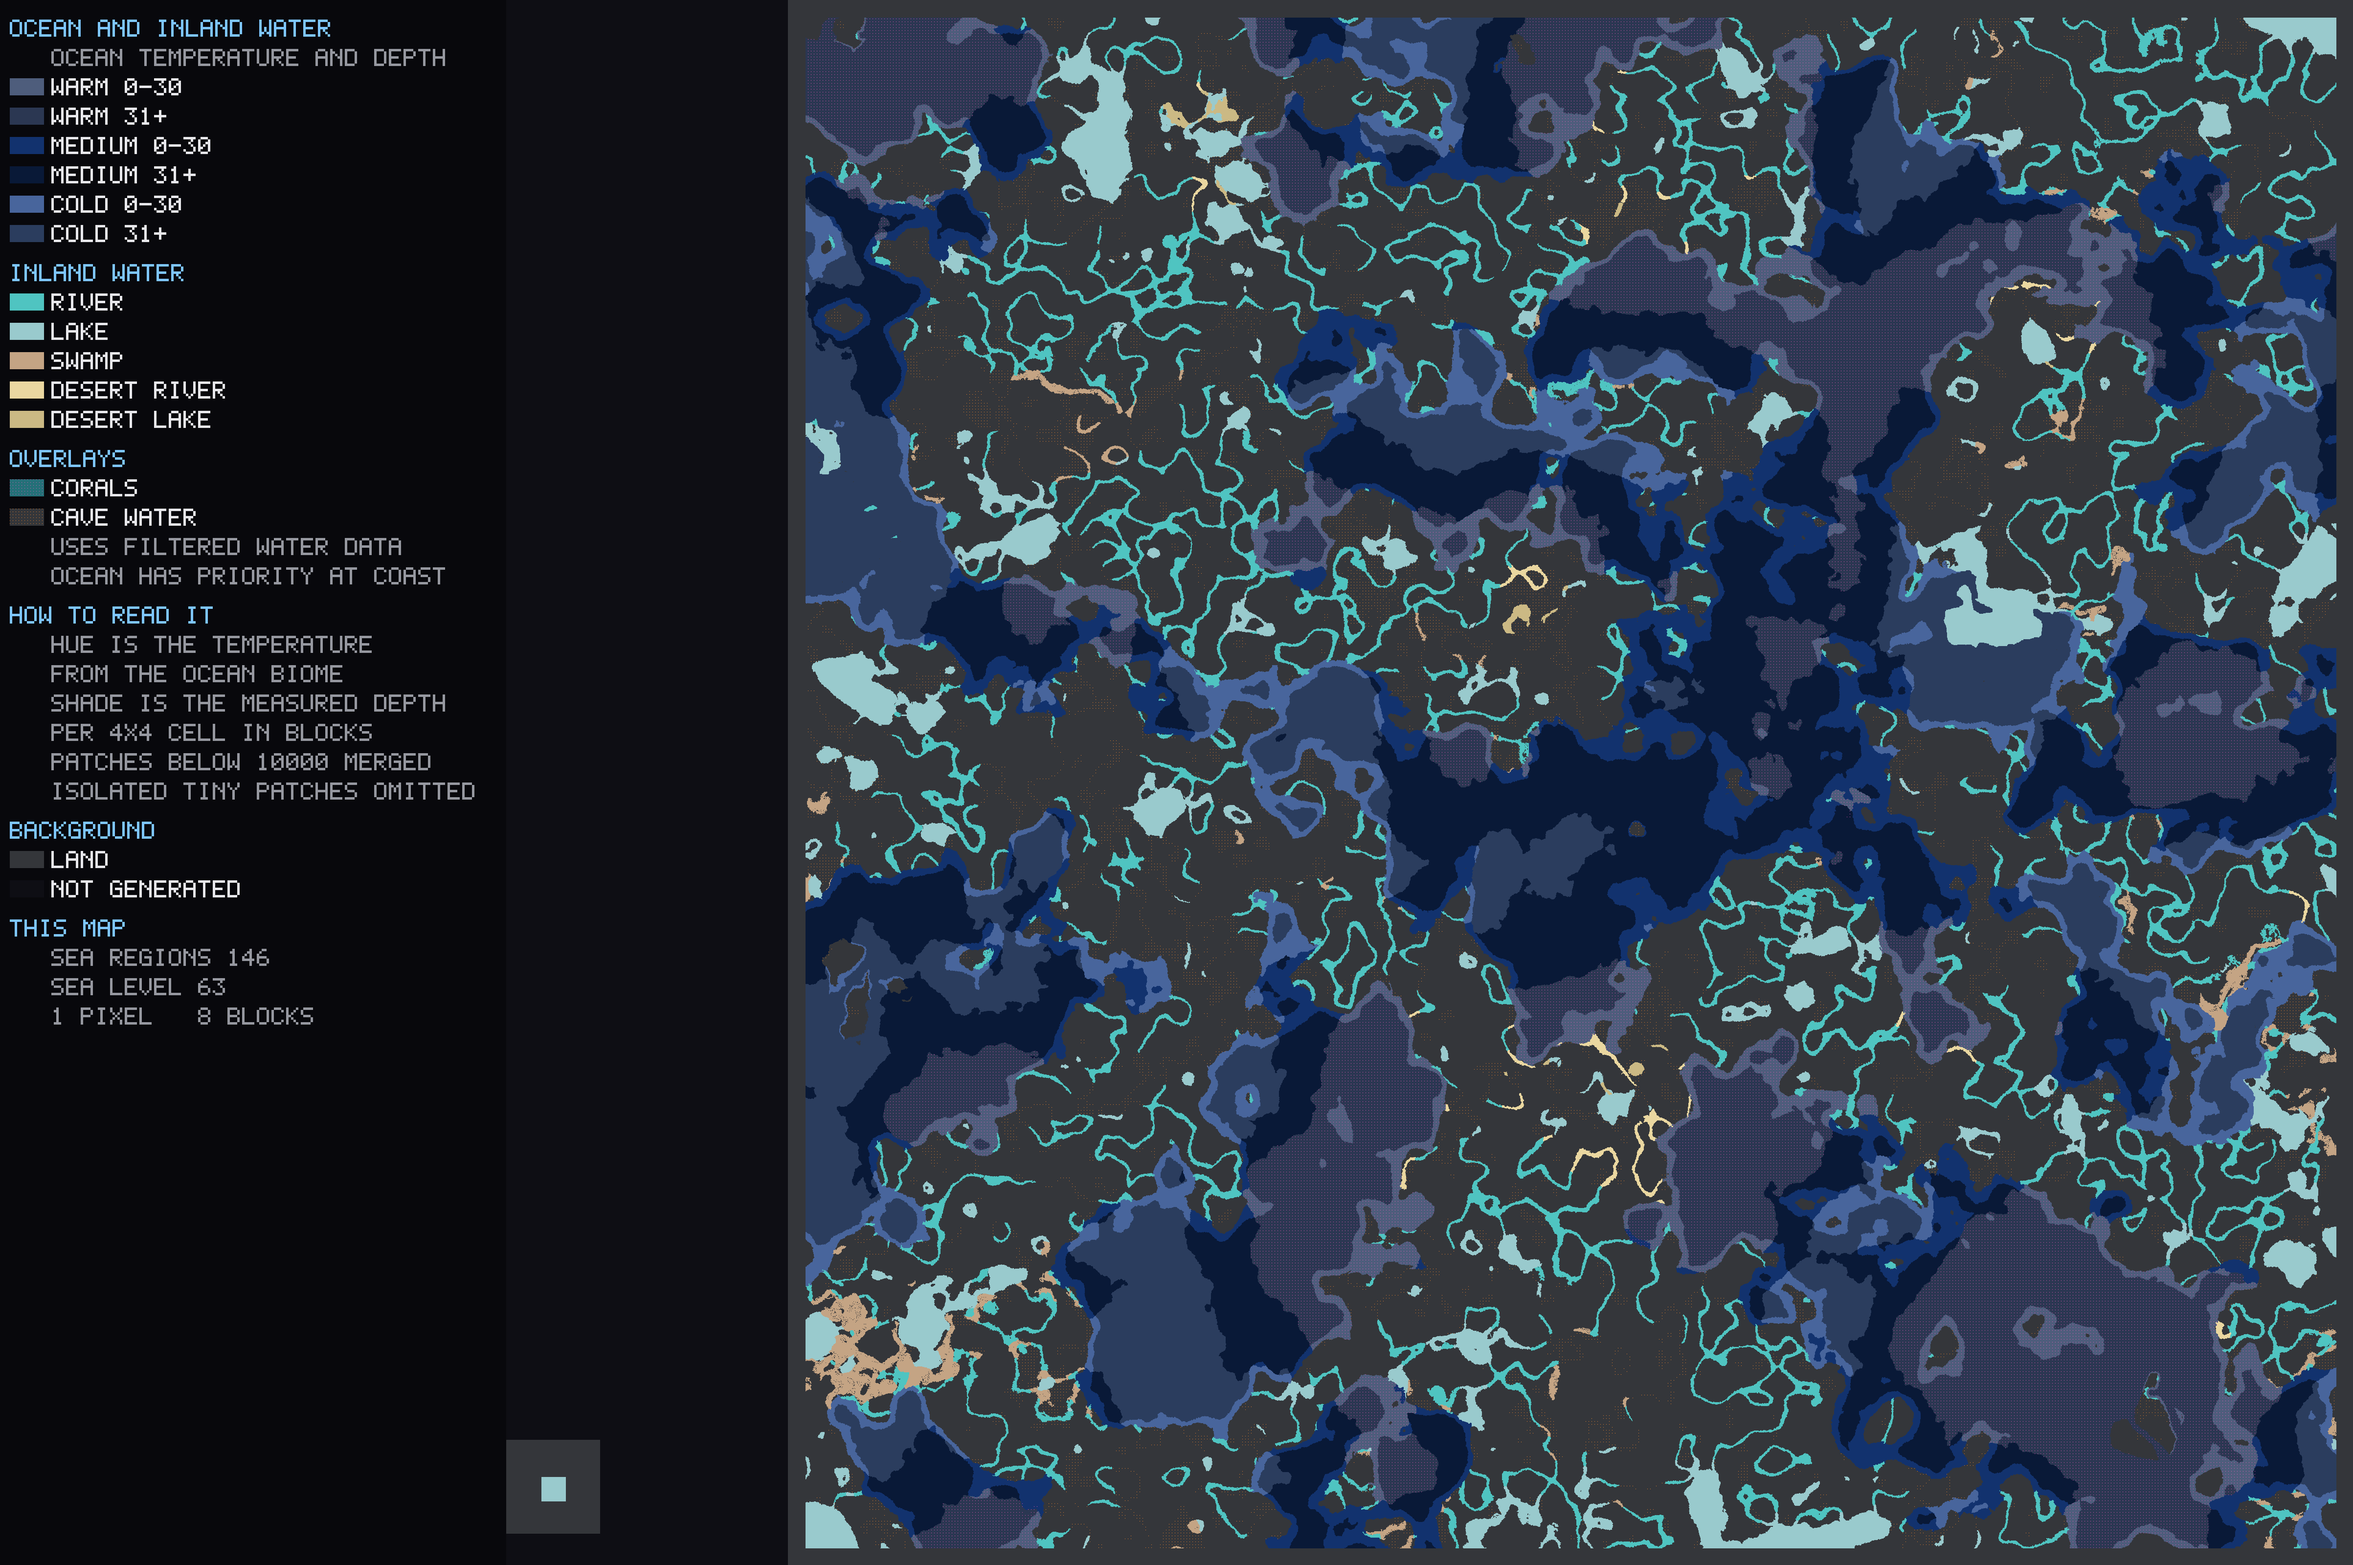
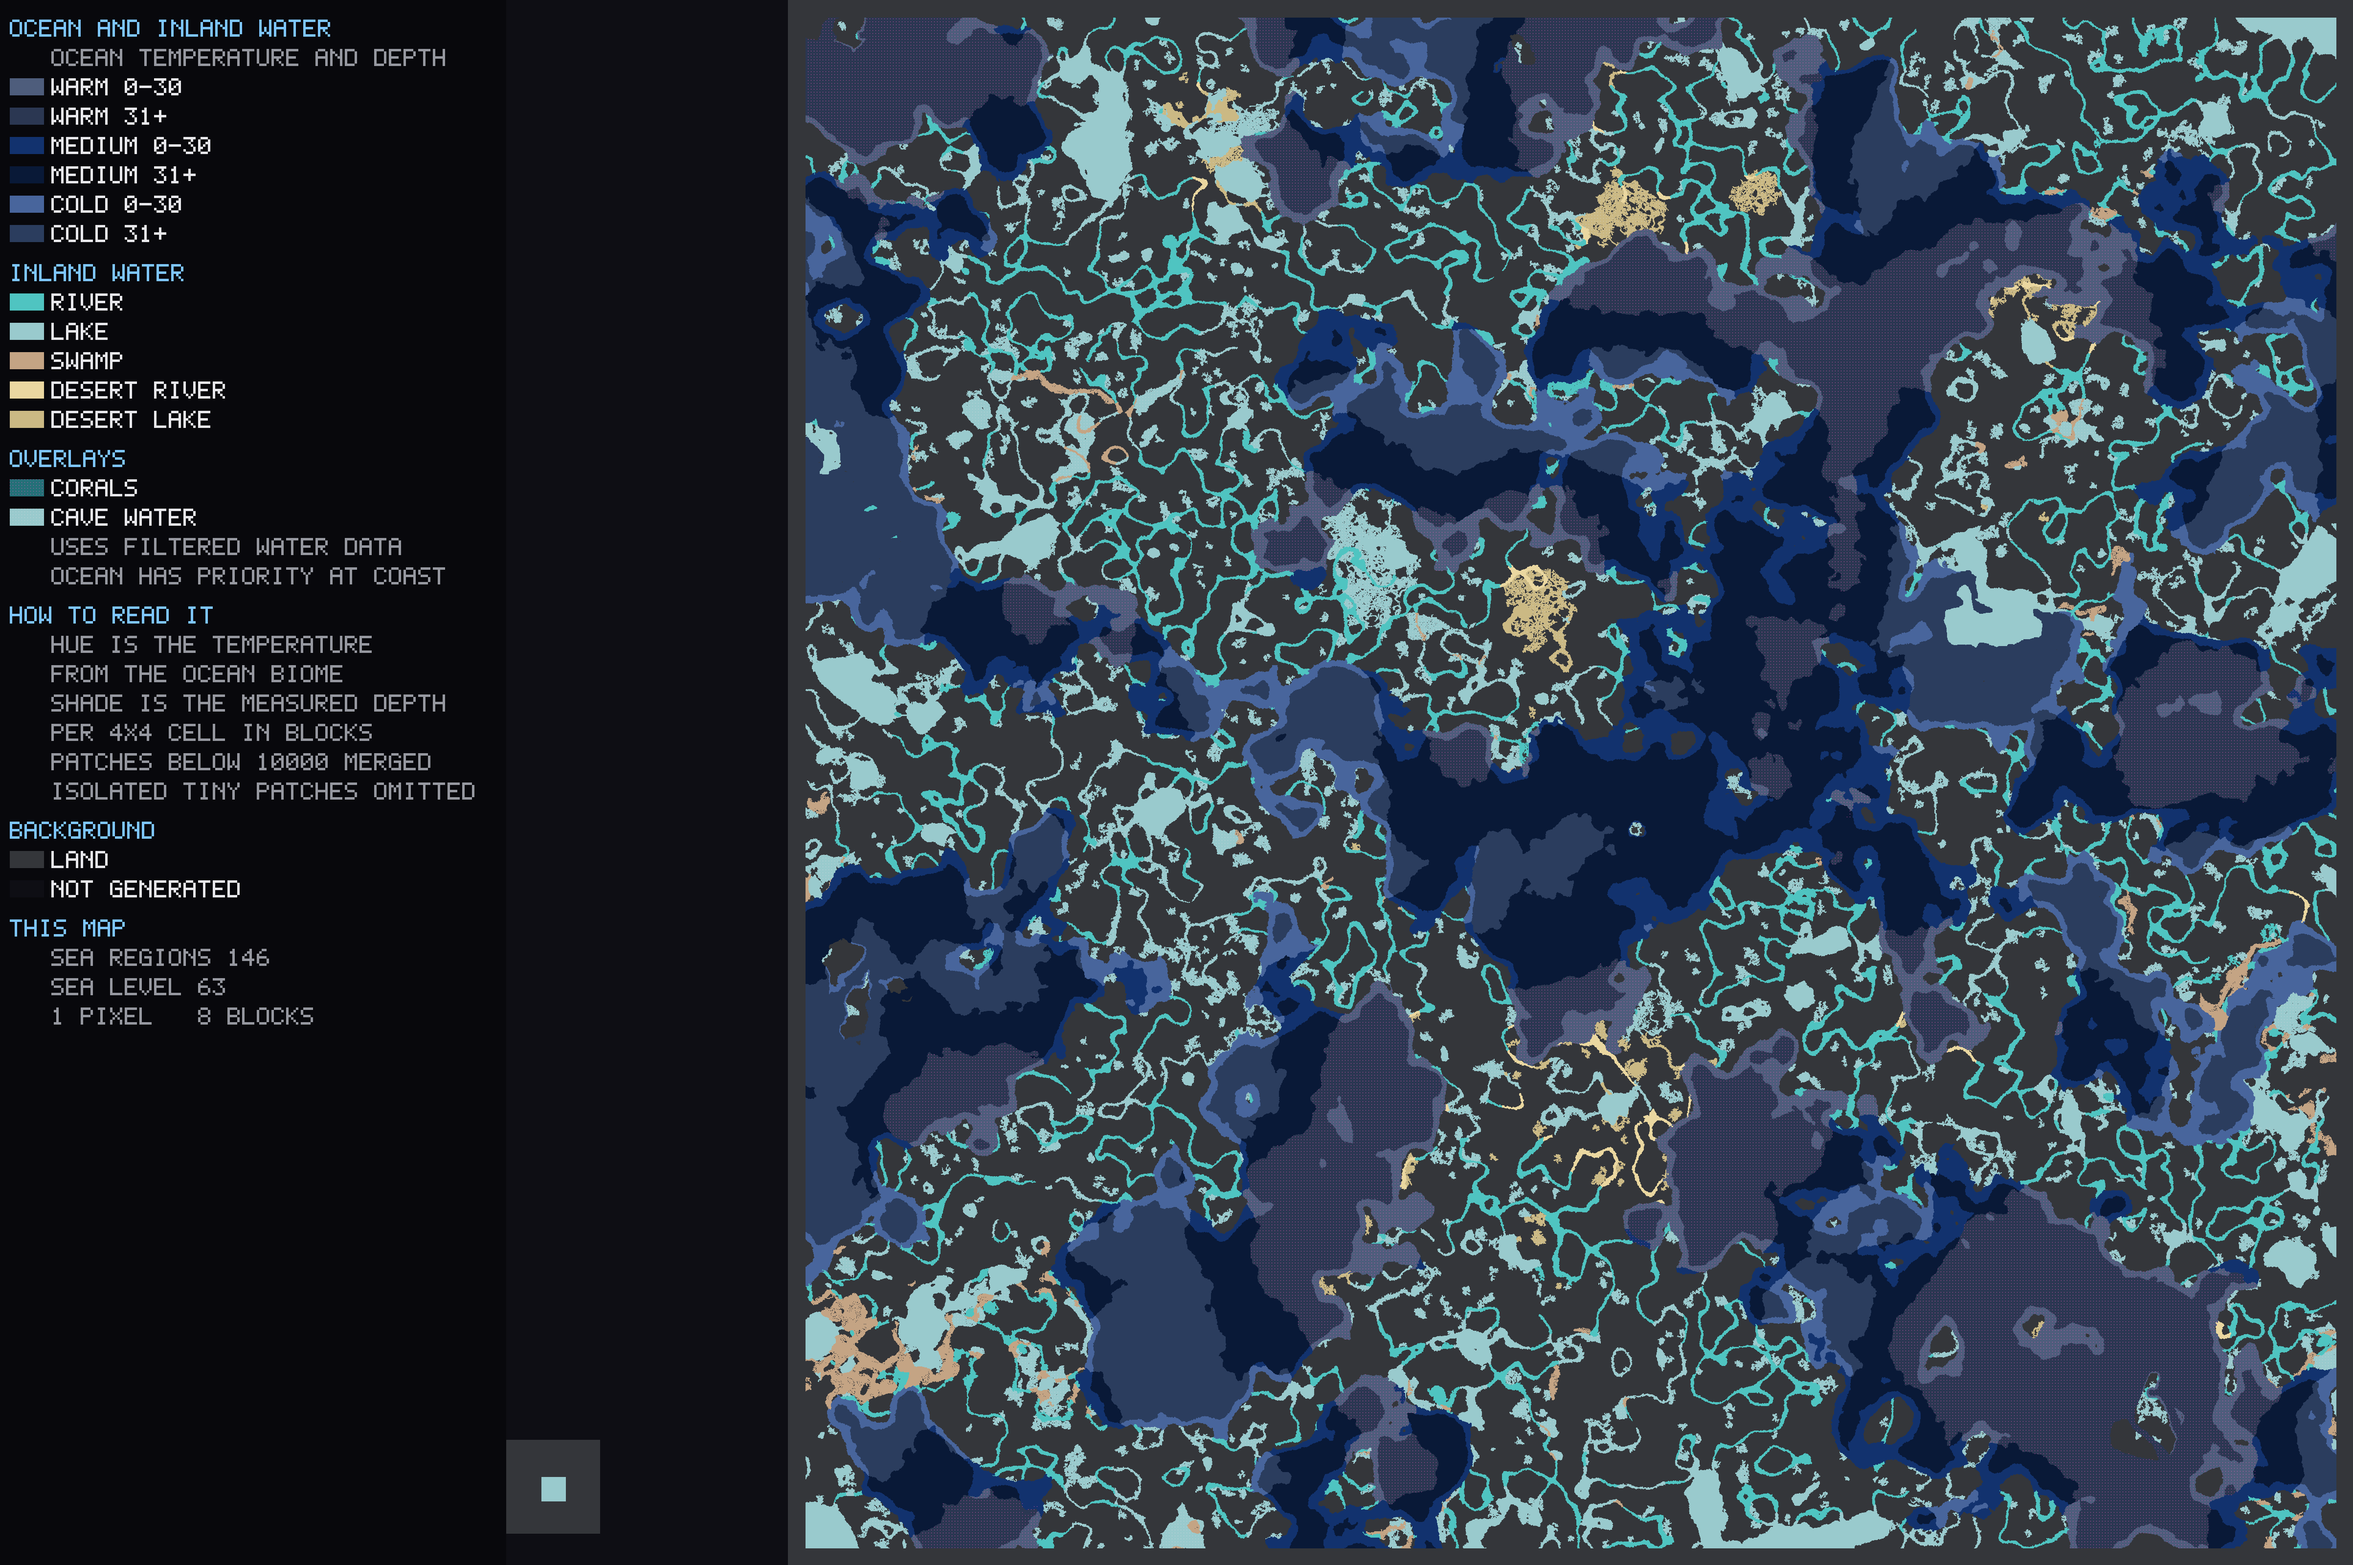
Show cave water kinds beneath light gray dots

diff --git a/src/debug/map.rs b/src/debug/map.rs
@@ -35,7 +35,7 @@ const TEXT_DIM: [u8; 3] = [150, 152, 160];
 const HEADER: [u8; 3] = [126, 198, 255];
 const RIVER_COLOR: [u8; 3] = [0x4f, 0xc4, 0xc1];
 const SWAMP_COLOR: [u8; 3] = [0xc4, 0xa4, 0x84];
-const CAVE_DOT_COLOR: [u8; 3] = [0xff, 0x8b, 0x2c];
+const CAVE_DOT_COLOR: [u8; 3] = [0xd2, 0xd6, 0xdc];
 const CORAL_DOT_COLOR: [u8; 3] = [0xff, 0x5a, 0xbe];
 
 pub struct MapOptions {
@@ -243,8 +243,8 @@ fn modifier_overlay(modifiers: Modifiers, x: usize, y: usize) -> Option<[u8; 3]>
 
 /// Sparse overlays shared by the full classification and clean overview maps.
 /// They only replace pixels already owned by a matching region; they never grow
-/// or fill its geometry. Cave dots are drawn over the land backdrop because the
-/// clean overview deliberately does not paint underground water as a surface lake.
+/// or fill its geometry. Cave dots sit on the normal river/lake/swamp colour so
+/// the water kind remains readable underneath the cave marker.
 fn overview_modifier_overlay(modifiers: Modifiers, x: usize, y: usize) -> Option<[u8; 3]> {
     if x % 6 != 2 || y % 6 != 2 {
         return None;
@@ -874,10 +874,6 @@ fn paint_inland(canvas: &mut Canvas, regions: &[WaterRegion], p: &Projection, in
             if (region.kind == WaterKind::Sea) != sea_pass {
                 continue;
             }
-            // Underground pools would cover the land in lake colour.
-            if region.modifiers.contains(Modifiers::CAVE) {
-                continue;
-            }
             let color = inland_region_color(region.kind, region.modifiers);
             for run in &region.geometry.runs {
                 let (xa, y) = p.px(run.x0, run.z);
@@ -932,7 +928,10 @@ fn inland_rows(regions: &[WaterRegion], blocks_per_pixel: u32) -> Vec<Row> {
         entry("DESERT LAKE", Swatch::Color(inland_region_color(WaterKind::Lake, Modifiers::DESERT))),
         heading("OVERLAYS"),
         entry("CORALS", Swatch::Pattern(inland_color(WaterKind::Sea), Modifiers::CORALS)),
-        entry("CAVE WATER", Swatch::Pattern(BG_LAND, Modifiers::CAVE)),
+        entry(
+            "CAVE WATER",
+            Swatch::Pattern(inland_color(WaterKind::Lake), Modifiers::CAVE),
+        ),
         heading("BACKGROUND"),
         entry("LAND", Swatch::Color(BG_LAND)),
         entry("NOT GENERATED", Swatch::Color(BG_VOID)),
@@ -959,7 +958,10 @@ fn combined_rows(regions: &[WaterRegion], sea_level: i16, blocks_per_pixel: u32,
         entry("DESERT LAKE", Swatch::Color(inland_region_color(WaterKind::Lake, Modifiers::DESERT))),
         heading("OVERLAYS"),
         entry("CORALS", Swatch::Pattern(inland_color(WaterKind::Sea), Modifiers::CORALS)),
-        entry("CAVE WATER", Swatch::Pattern(BG_LAND, Modifiers::CAVE)),
+        entry(
+            "CAVE WATER",
+            Swatch::Pattern(inland_color(WaterKind::Lake), Modifiers::CAVE),
+        ),
         note("USES FILTERED WATER DATA"),
         note("OCEAN HAS PRIORITY AT COAST"),
     ]);
@@ -1326,29 +1328,32 @@ mod tests {
     }
 
     #[test]
-    fn overview_modifiers_only_replace_pixels_inside_the_original_geometry() {
-        let mut marked = region(0, WaterKind::Lake, Temperature::Medium, Some(Depth::Shallow));
-        marked.modifiers = Modifiers::CAVE;
-        marked.geometry = RegionGeometry {
-            min_x: 1,
-            min_z: 2,
-            max_x: 4,
-            max_z: 2,
-            runs: vec![Run { z: 2, x0: 1, x1: 4 }],
-            column_count: 4,
-        };
+    fn cave_overlay_keeps_the_water_kind_visible_under_sparse_dots() {
         let p = Projection::new((0, 0, 7, 7), 1);
-        let mut canvas = Canvas::new(8, 8, BG_LAND);
-        paint_overview_modifiers(&mut canvas, &[marked], &p);
+        for kind in [WaterKind::River, WaterKind::Lake, WaterKind::Swamp] {
+            let mut marked = region(0, kind, Temperature::Medium, Some(Depth::Shallow));
+            marked.modifiers = Modifiers::CAVE;
+            marked.geometry = RegionGeometry {
+                min_x: 1,
+                min_z: 2,
+                max_x: 4,
+                max_z: 2,
+                runs: vec![Run { z: 2, x0: 1, x1: 4 }],
+                column_count: 4,
+            };
+            let mut canvas = Canvas::new(8, 8, BG_LAND);
+            paint_inland(&mut canvas, std::slice::from_ref(&marked), &p, true);
+            paint_overview_modifiers(&mut canvas, &[marked], &p);
 
-        let pixel = |x: usize, y: usize| {
-            let i = (y * canvas.w + x) * 3;
-            [canvas.px[i], canvas.px[i + 1], canvas.px[i + 2]]
-        };
-        assert_eq!(pixel(2, 2), CAVE_DOT_COLOR);
-        assert_eq!(pixel(1, 2), BG_LAND, "non-dot geometry must keep its base colour");
-        assert_eq!(pixel(3, 2), BG_LAND, "the overlay must stay sparse");
-        assert_eq!(pixel(2, 1), BG_LAND, "pixels outside the run must never be marked");
+            let pixel = |x: usize, y: usize| {
+                let i = (y * canvas.w + x) * 3;
+                [canvas.px[i], canvas.px[i + 1], canvas.px[i + 2]]
+            };
+            assert_eq!(pixel(2, 2), CAVE_DOT_COLOR);
+            assert_eq!(pixel(1, 2), inland_color(kind), "{kind:?} base was hidden");
+            assert_eq!(pixel(3, 2), inland_color(kind), "overlay is not sparse");
+            assert_eq!(pixel(2, 1), BG_LAND, "pixel outside the run was marked");
+        }
     }
 
     #[test]

diff --git a/README.md b/README.md
@@ -28,9 +28,9 @@ This is agreement on the tuning mask, not a whole-world accuracy claim. See the
 [settings, evaluation and limitations](docs/lake-detection.md#mask-calibration).
 Modifier textures appear on `debug/water_map.png`; the clean inland and combined
 overviews also mark coral regions with magenta dots and underground cave water
-with orange dots. These sparse overlays replace pixels only inside the original
-region geometry. Cave water is otherwise left on the land backdrop instead of
-being painted as a surface lake. This height-filtered sample has no `CAVE`
+with light-grey dots. These sparse overlays replace pixels only inside the original
+region geometry, while the normal river, lake or swamp colour remains visible
+underneath. This height-filtered sample has no `CAVE`
 regions because covered water above the cutoff remains part of the surface
 network; omit the height filter to produce separately classified cave water.
 The earlier classifier produced 2,336 regions. The additional lake/channel cuts
@@ -60,7 +60,7 @@ removes small isolated ones. Desert rivers and lakes use lighter sand colours.
 <details>
 <summary>Coral and cave overlays with unrestricted cave scanning</summary>
 
-![Minecraft water map with magenta coral dots and orange cave-water dots](docs/images/minecraft-coral-cave-map.png)
+![Minecraft water map with magenta coral dots and light-grey cave-water dots](docs/images/minecraft-coral-cave-map.png)
 
 </details>
 
@@ -213,7 +213,8 @@ validation aids:
 * `water_combined_map.png` - cleaned ocean temperature/depth zones with rivers,
   lakes and swamps, and a shared legend. Ocean pixels take priority wherever
   coastal water shares an output pixel with an inland region. Magenta dots mark
-  coral regions and orange dots mark cave water without changing either outline.
+  coral regions and light-grey dots mark cave water without hiding its water kind
+  or changing either outline.
 * `water_inland_map.png` - the mirror image of the ocean map: the sea flattened to
   one green-blue backdrop, with the rivers, lakes and swamps picked out against
   it. Inland water is drawn after the sea, because at eight blocks per pixel a
@@ -669,9 +670,9 @@ the default. Keep both together to reproduce the classification and image at
 this commit. Thread count affects speed only. The command uses a height cutoff
 and retains covered mountain rivers.
 For the unrestricted cave scan, remove `--max-below-sea-level 10`. The default
-`--min-cave-body 4000` filters small cave-classified pools, while orange dots show
-the retained cave geometry and magenta dots show coral regions on the inland and
-combined maps.
+`--min-cave-body 4000` filters small cave-classified pools, while light-grey dots
+show the retained cave geometry over its normal water-kind colour and magenta dots
+show coral regions on the inland and combined maps.
 Cave pools dominate the total region count in the example world, so filtering
 them has a much larger effect on the total than changing surface-water labels.
 
